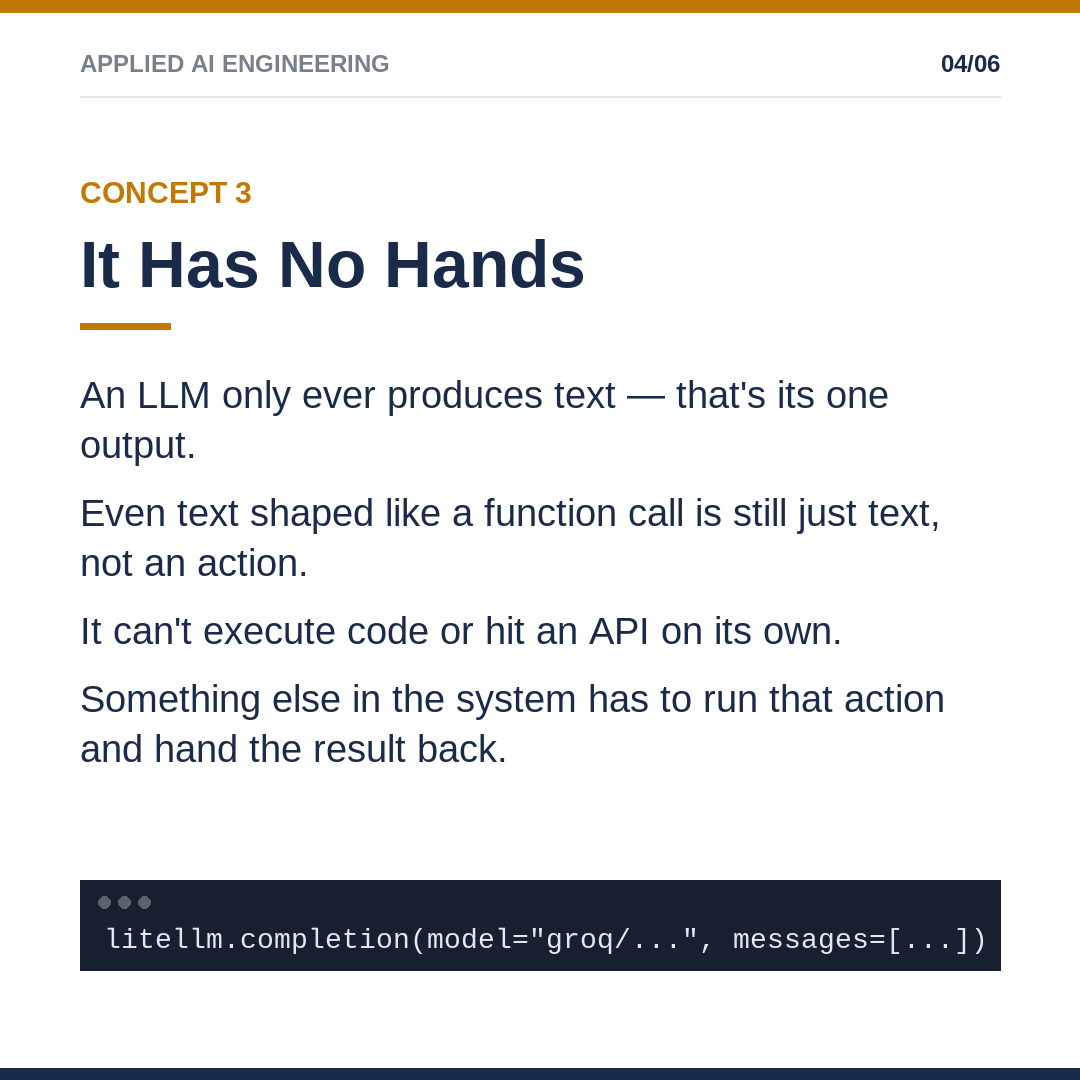
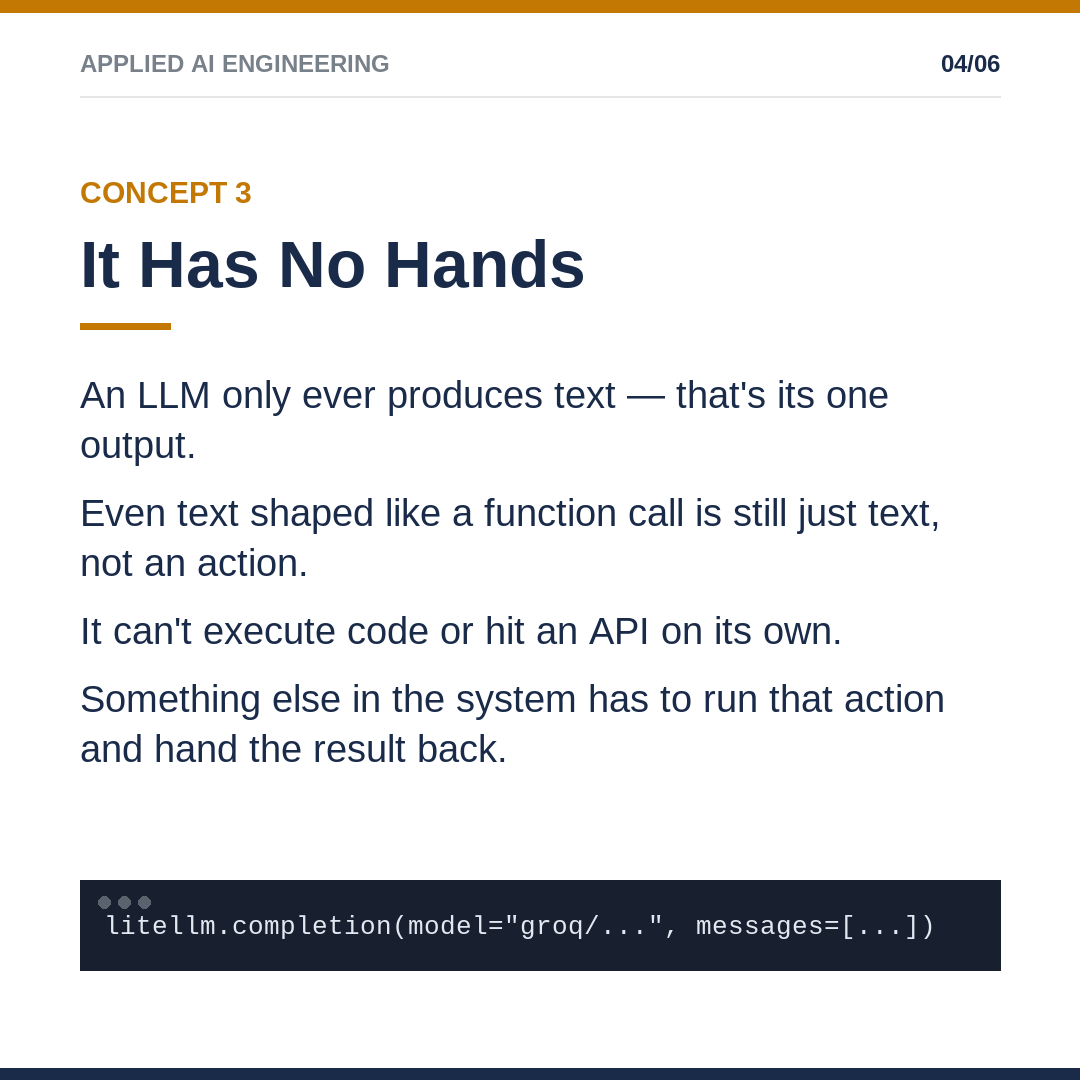
Fix code-block overflow in carousel template; add post 4
- carousel_template.py: code text now auto-shrinks to fit the block
  width instead of running off-canvas (hit on post 4's Q@K.T line)
- Regenerated posts 1-3 with the fixed template for consistency
- Added post 4 (transformer-architecture-and-attention): 6-slide
  carousel + LI/IG copy

Changed region(s): [[0.0917, 0.8556, 0.5806, 0.8861], [0.6417, 0.8556, 0.8556, 0.8861], [0.8861, 0.8556, 0.9167, 0.8861]]

diff --git a/.claude/skills/posts/carousel_template.py b/.claude/skills/posts/carousel_template.py
@@ -101,8 +101,14 @@ def slide(filename, slide_no, total, kicker, headline, body_lines, code=None, cl
         # fake window dots
         for i, cx in enumerate([margin+24, margin+44, margin+64]):
             d.ellipse([cx-6, code_y+16, cx+6, code_y+28], fill=(90,98,110))
-        f_mono = ImageFont.truetype(FONT_MONO, 28)
-        d.text((margin+24, code_y+44), code, font=f_mono, fill=CODE_TEXT)
+        # shrink font until the code line fits on one row inside the block
+        code_max_width = W - 2*margin - 48
+        mono_size = 28
+        f_mono = ImageFont.truetype(FONT_MONO, mono_size)
+        while mono_size > 14 and d.textlength(code, font=f_mono) > code_max_width:
+            mono_size -= 2
+            f_mono = ImageFont.truetype(FONT_MONO, mono_size)
+        d.text((margin+24, code_y+45 - mono_size//2), code, font=f_mono, fill=CODE_TEXT)
 
     if closing_q:
         q_lines = wrap(d, closing_q, f_q, W - 2*margin)

diff --git a/assets/social-posts/04-transformer-architecture-and-attention/copy.md b/assets/social-posts/04-transformer-architecture-and-attention/copy.md
@@ -1,0 +1,41 @@
+--- LINKEDIN ---
+The architecture behind nearly every current LLM
+
+Self-attention: every token weighs every other token directly, instead of processing text strictly left to right. That's the Transformer's defining trick.
+
+Older models (RNNs) processed tokens in order, compressing everything into one running summary — information from early in a long sequence got diluted by the time a later token needed it. Self-attention skips that: every token compares directly against every other token, all at once, in parallel.
+
+Mechanically: each token's embedding splits into Query, Key, and Value vectors. Attention compares a token's Query against every other token's Key, then blends Values by those weights — run several of these in parallel (multi-head attention) and different heads specialize in different relationships.
+
+Two consequences worth knowing: positional encoding gets added because the raw comparison is symmetric (no built-in sense of order), and most current LLMs are decoder-only — each token attends only to itself and earlier tokens, which is the architectural reason generation runs strictly left to right.
+
+Full breakdown — Q/K/V, residual connections, and the real O(n²) cost — in the carousel.
+
+Where in your system are you paying that squared cost without realizing it?
+
+#AppliedAI #LLM #AIEngineering
+
+--- INSTAGRAM ---
+The architecture behind nearly every current LLM 🔗
+
+Self-attention: every token weighs every other token directly, all at once — not left-to-right like older models.
+
+Each token splits into Query, Key, Value. Multi-head attention runs several of these in parallel, each specializing in different relationships.
+
+Decoder-only means each token only sees itself and earlier tokens — why generation runs left to right.
+
+Where are you paying that squared cost without realizing it?
+
+#AppliedAI #LLM #AIEngineering #GenAI
+
+--- VISUAL FORMAT ---
+carousel — 6 slides
+1. Title — "The Architecture Behind Every LLM"
+2. Concept 1 — Self-Attention vs. Older Models
+3. Concept 2 — Query, Key, Value (code: scores = Q @ K.T / sqrt(d_k))
+4. Concept 3 — Position And Depth
+5. Concept 4 — Decoder-Only, And Its Real Cost
+6. Takeaway — closing question
+
+--- SCHEDULE ---
+Mon 8/31: IG 7pm · LinkedIn 10am
